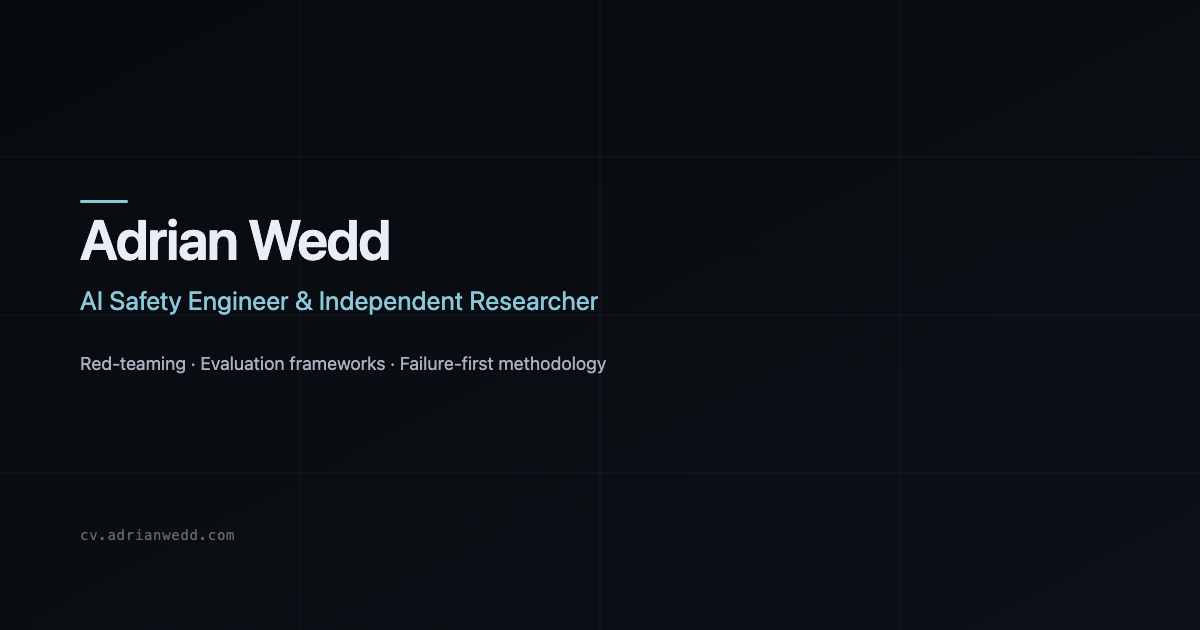
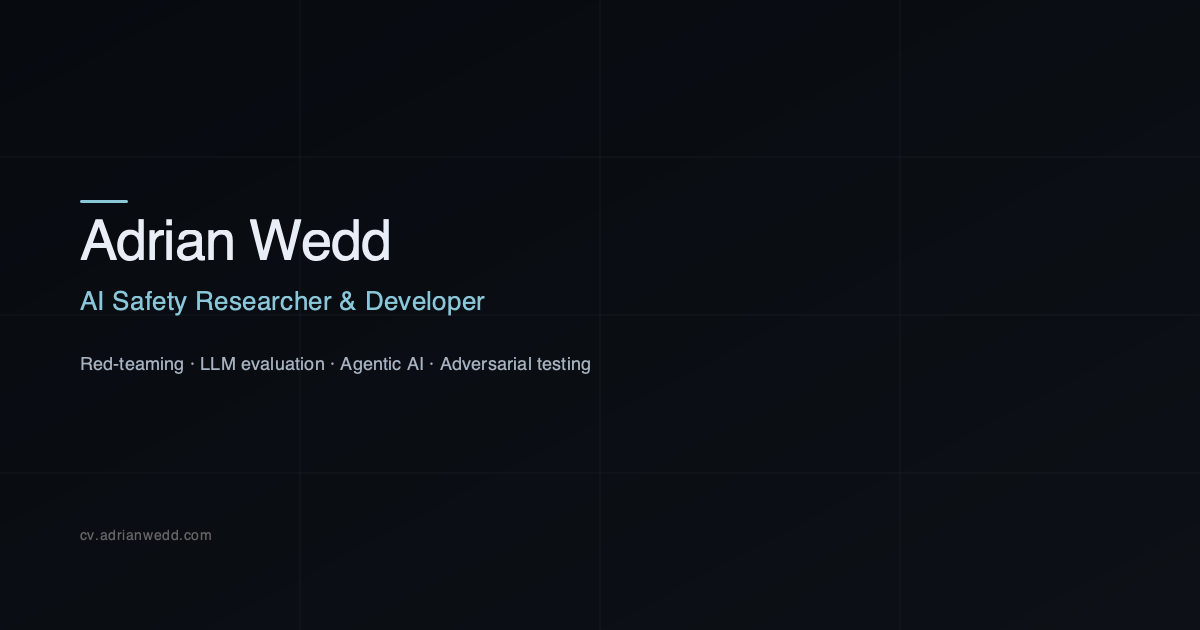
feat: add projects, update OG image, improve SEO and structured data
Projects: added Afterwords, SPARK, Wolf Clan Zen Do Kai; removed Cygnet;
added URLs for all 10 projects (all verified live).

OG image: updated title to "AI Safety Researcher & Developer" and
tagline to current keywords. Regenerated PNG from SVG.

JSON-LD: wrapped Person in ProfilePage, added image, worksFor,
adrianwedd.com to sameAs, expanded knowsAbout to 33 terms.
Shortened description for better search snippets.

SEO: added og:site_name and og:locale meta tags. Added lastmod to
sitemap.xml. Added /.github/ and /dist/ to robots.txt Disallow.

diff --git a/index.html b/index.html
@@ -9,6 +9,8 @@
 
     <!-- Open Graph / Social Media -->
     <meta property="og:type" content="website">
+    <meta property="og:site_name" content="Adrian Wedd — CV">
+    <meta property="og:locale" content="en_AU">
     <meta property="og:title" content="Adrian Wedd - AI Safety Researcher &amp; Developer">
     <meta property="og:description" content="Systems builder, AI safety researcher, and adversarial thinker with nearly 45 years across the stack. The failure-first methodology didn&#39;t come from papers ...">
     <meta property="og:url" content="https://cv.adrianwedd.com">
@@ -56,35 +58,42 @@
     <script type="application/ld+json">
 {
   "@context": "https://schema.org",
-  "@type": "Person",
-  "name": "Adrian Wedd",
-  "jobTitle": "AI Safety Researcher & Developer",
-  "description": "Systems builder, AI safety researcher, and adversarial thinker with nearly 45 years across the stack. The failure-first methodology didn't come from papers — it came from coordinating direct actions for Greenpeace's Actions unit against well-resourced opponents where getting the risk assessment wrong had real consequences. That operational security instinct runs through everything: seven years leading cybersecurity, penetration testing, and IDAM for Tasmania's public housing sector; three years of empirical AI red-teaming across 120+ models and 18,000+ adversarial prompts; and production AI systems with hallucination detection and content safety gates built in from the start. Currently freelancing across client delivery (healthcare ecosystems, multilingual sites, ops tooling) and independent AI safety research. AuDHD — the hyperfocus and pattern recognition are features, not bugs. Most interested in where complex systems break and what that reveals about how they were built.",
-  "url": "https://cv.adrianwedd.com",
-  "email": "adrian@adrianwedd.com",
-  "telephone": "+61407081084",
-  "sameAs": [
-    "https://github.com/adrianwedd",
-    "https://linkedin.com/in/adrianwedd"
-  ],
-  "knowsAbout": [
-    "Python",
-    "JavaScript",
-    "TypeScript",
-    "PowerShell",
-    "LLM Integration",
-    "AI Safety & Evaluation",
-    "Process Automation",
-    "Systems Integration",
-    "Cybersecurity",
-    "Linux/Windows Server"
-  ],
-  "address": {
-    "@type": "PostalAddress",
-    "postOfficeBoxNumber": "331",
-    "addressLocality": "Cygnet",
-    "addressRegion": "Tasmania",
-    "addressCountry": "Australia"
+  "@type": "ProfilePage",
+  "dateModified": "2026-03-23",
+  "mainEntity": {
+    "@type": "Person",
+    "name": "Adrian Wedd",
+    "jobTitle": "AI Safety Researcher & Developer",
+    "description": "AI safety researcher and developer specialising in adversarial evaluation, red-teaming, and failure-first methodology for frontier AI systems. Seven years leading cybersecurity for Tasmania's public housing sector. Currently freelancing across client delivery and independent AI safety research.",
+    "url": "https://cv.adrianwedd.com",
+    "image": "https://cv.adrianwedd.com/assets/og-image.png",
+    "email": "adrian@adrianwedd.com",
+    "telephone": "+61407081084",
+    "sameAs": [
+      "https://github.com/adrianwedd",
+      "https://linkedin.com/in/adrianwedd",
+      "https://adrianwedd.com"
+    ],
+    "worksFor": {
+      "@type": "Organization",
+      "name": "Independent"
+    },
+    "knowsAbout": [
+      "AI Safety", "Red-Teaming", "Adversarial Testing", "LLM Evaluation",
+      "Large Language Models", "Deep Learning", "Generative AI", "Machine Learning",
+      "Natural Language Processing", "Python", "PyTorch", "TensorFlow",
+      "LangChain", "LangGraph", "Anthropic Claude API", "RAG",
+      "Multi-Agent Systems", "MCP Development", "Cybersecurity",
+      "Penetration Testing", "Docker", "Kubernetes", "AWS", "Azure", "GCP",
+      "JavaScript", "TypeScript", "React", "Node.js", "FastAPI",
+      "MLOps", "CI\/CD", "GitHub Actions"
+    ],
+    "address": {
+      "@type": "PostalAddress",
+      "addressLocality": "Cygnet",
+      "addressRegion": "Tasmania",
+      "addressCountry": "AU"
+    }
   }
 }
 </script>
